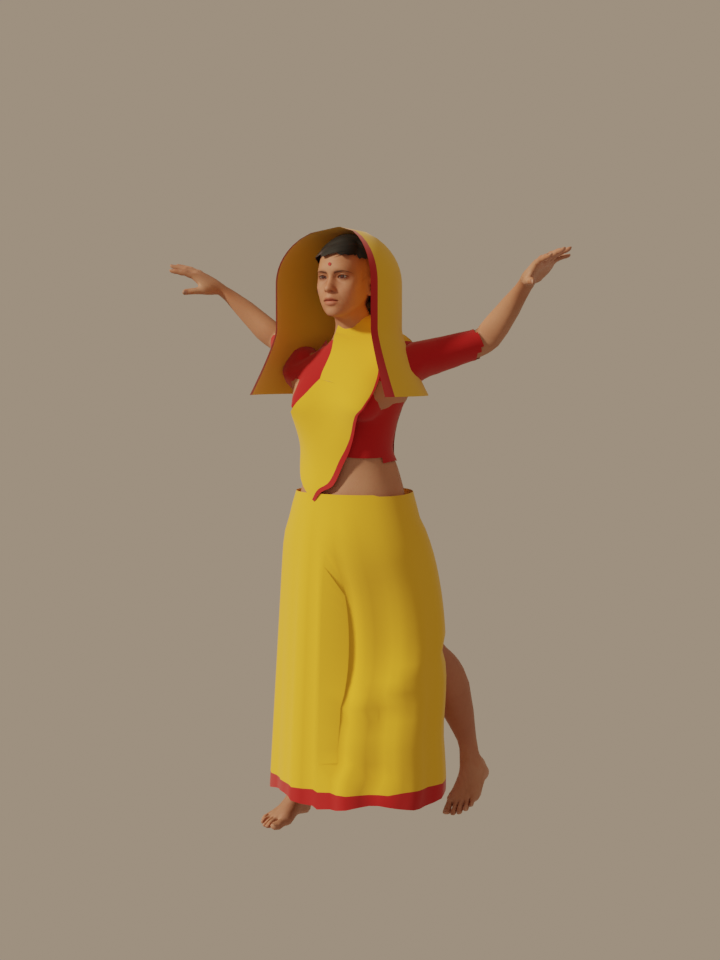
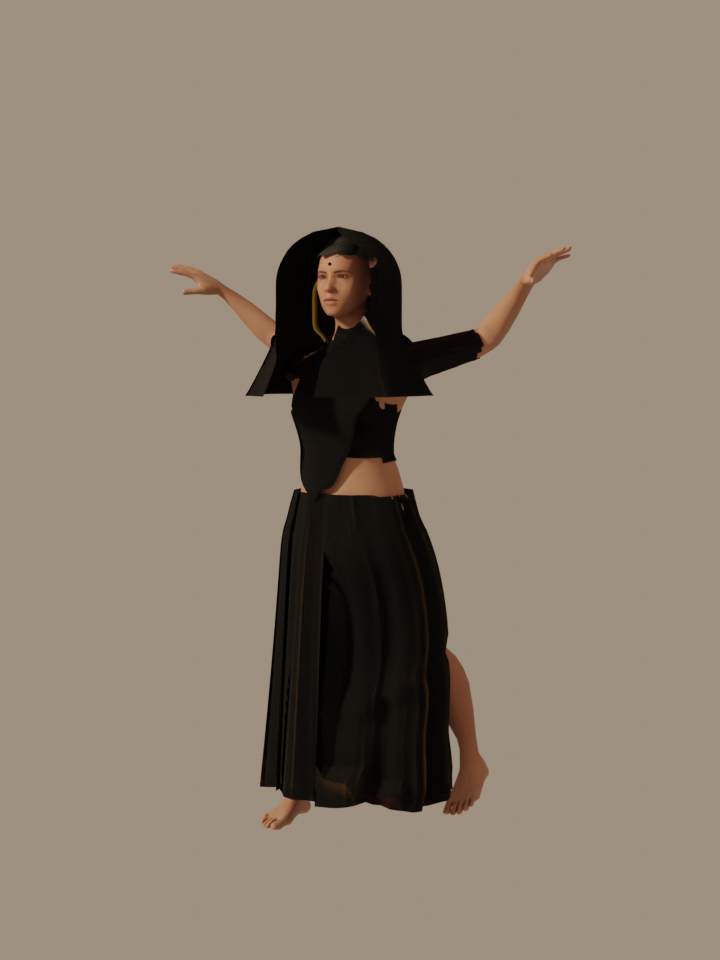
characters: cloth simulation for skirt & head drape (pinned, body collision), stronger handloom texture; validator normalises bone names like three.js

Changed region(s): [[0.3361, 0.2188, 0.6722, 0.8438]]

diff --git a/characters/blender/build_character.py b/characters/blender/build_character.py
@@ -150,7 +150,7 @@ if hair:
 # ───────────────────────── garment helpers ─────────────────────────
 
 
-def weave_images(name, rgb, size=512, threads=48, stripe=None):
+def weave_images(name, rgb, size=512, threads=28, stripe=None):
     """Plain-weave cotton: base colour (with slub variation) + tangent-space normal map."""
     rng = np.random.default_rng(abs(hash(name)) % 2**32)
     yy, xx = np.mgrid[0:size, 0:size].astype(np.float32) / size
@@ -159,7 +159,7 @@ def weave_images(name, rgb, size=512, threads=48, stripe=None):
     weft = 0.5 + 0.5 * np.cos(py)
     over = (np.floor(xx * threads) + np.floor(yy * threads)) % 2
     height = np.where(over > 0, warp * 0.8 + weft * 0.2, weft * 0.8 + warp * 0.2)
-    slub = np.repeat(rng.normal(0, 0.035, size), size).reshape(size, size)  # uneven yarn
+    slub = np.repeat(rng.normal(0, 0.06, size), size).reshape(size, size) + np.tile(rng.normal(0, 0.03, size), (size, 1))  # uneven yarn
     lum = 0.86 + 0.16 * height + slub + rng.normal(0, 0.015, (size, size))
     col = np.stack([np.clip(rgb[i] * lum, 0, 1) for i in range(3)], axis=-1)
     if stripe:  # woven border lines (e.g. gold thread in a red border)
@@ -245,8 +245,13 @@ for v in body.data.vertices:
         W[v.index, g.group] = g.weight
 
 
-def skin_from_body(obj, k=4, pelvis_blend=None, no_arms=False):
+SKIN_ARGS = {}
+
+
+def skin_from_body(obj, k=4, pelvis_blend=None, no_arms=False, _remember=True):
     """Copy armature weights from the nearest body vertices (inverse-distance)."""
+    if _remember:
+        SKIN_ARGS[obj.name] = dict(k=k, pelvis_blend=pelvis_blend, no_arms=no_arms)
     for gn in group_names:
         if gn not in obj.vertex_groups:
             obj.vertex_groups.new(name=gn)
@@ -276,10 +281,11 @@ def skin_from_body(obj, k=4, pelvis_blend=None, no_arms=False):
         for gi in np.argsort(-acc)[:4]:
             if acc[gi] > 0.01:
                 obj.vertex_groups[group_names[gi]].add([v.index], float(acc[gi]), "REPLACE")
-    mod = obj.modifiers.new("Armature", "ARMATURE")
-    mod.object = rig
-    obj.parent = rig
-    obj.matrix_parent_inverse = rig.matrix_world.inverted()
+    if "Armature" not in obj.modifiers:
+        mod = obj.modifiers.new("Armature", "ARMATURE")
+        mod.object = rig
+        obj.parent = rig
+        obj.matrix_parent_inverse = rig.matrix_world.inverted()
 
 
 def new_obj(name, bm, mats):
@@ -586,6 +592,69 @@ else:  # kurta_pyjama / child
     garments.append(body_shell("kurta", TORSO + ["mixamorig:LeftForeArm", "mixamorig:RightForeArm", "mixamorig:LeftUpLeg", "mixamorig:RightUpLeg"], hips_z - 0.22, neck_z - 0.01, 0.006, kurta, sleeve_z_min=0))
     py = cloth_mat("pyjama", C.get("pyjama", (0.94, 0.92, 0.85)))
     garments.append(body_shell("pyjama", ["mixamorig:Hips", "mixamorig:LeftUpLeg", "mixamorig:RightUpLeg", "mixamorig:LeftLeg", "mixamorig:RightLeg"], foot_z + 0.06, hips_z + 0.05, 0.007, py))
+
+
+# ───────────────────────── cloth simulation (real drape) ─────────────────────────
+def simulate(objs_pins, frames=36):
+    """objs_pins: [(object, pin_test(world_co) -> bool)]. Simulates in the rest pose."""
+    col = body.modifiers.new("collide", "COLLISION")
+    body.collision.thickness_outer = 0.006
+    body.collision.cloth_friction = 8
+    for ob, pin_test in objs_pins:
+        g = ob.vertex_groups.new(name="pin")
+        g.add([v.index for v in ob.data.vertices if pin_test(ob.matrix_world @ v.co)], 1.0, "REPLACE")
+        m = ob.modifiers.new("cloth", "CLOTH")
+        c = m.settings
+        c.quality = 6
+        c.mass = 0.18           # cotton
+        c.tension_stiffness = 12
+        c.compression_stiffness = 12
+        c.shear_stiffness = 6
+        c.bending_stiffness = 0.6
+        c.air_damping = 1.5
+        c.vertex_group_mass = "pin"
+        m.collision_settings.use_collision = True
+        m.collision_settings.distance_min = 0.004
+        m.collision_settings.use_self_collision = False
+        m.point_cache.frame_start, m.point_cache.frame_end = 1, frames
+    scn = bpy.context.scene
+    scn.frame_start, scn.frame_end = 1, frames
+    for f in range(1, frames + 1):
+        scn.frame_set(f)
+    dg = bpy.context.evaluated_depsgraph_get()
+    for ob, _ in objs_pins:
+        ev = ob.evaluated_get(dg)
+        me = ev.to_mesh()
+        co = np.empty(len(me.vertices) * 3, dtype=np.float32)
+        me.vertices.foreach_get("co", co)
+        ev.to_mesh_clear()
+        ob.modifiers.remove(ob.modifiers["cloth"])
+        ob.data.vertices.foreach_set("co", co)
+        ob.data.update()
+        ob.vertex_groups.remove(ob.vertex_groups["pin"])
+        # re-skin from the draped positions
+        for g in list(ob.vertex_groups):
+            ob.vertex_groups.remove(g)
+        skin_from_body(ob, _remember=False, **SKIN_ARGS[ob.name])
+        moved = "ok"
+        log(f"draped {ob.name}: {moved}")
+    body.modifiers.remove(col)
+    scn.frame_set(1)
+
+
+by_name = {g.name: g for g in garments}
+to_sim = []
+if "saree_skirt" in by_name:
+    to_sim.append((by_name["saree_skirt"], lambda co: co.z > hips_z + 0.02))
+if "dhoti" in by_name:
+    to_sim.append((by_name["dhoti"], lambda co: co.z > hips_z - 0.02))
+if "pallu_head" in by_name:
+    to_sim.append((by_name["pallu_head"], lambda co: co.z > L["Head"].z + 0.07))
+if to_sim:
+    try:
+        simulate(to_sim)
+    except Exception as e:  # keep the un-simulated garment rather than failing the build
+        log("cloth simulation failed:", repr(e))
 
 for g in garments:
     cylindrical_uv(g)
